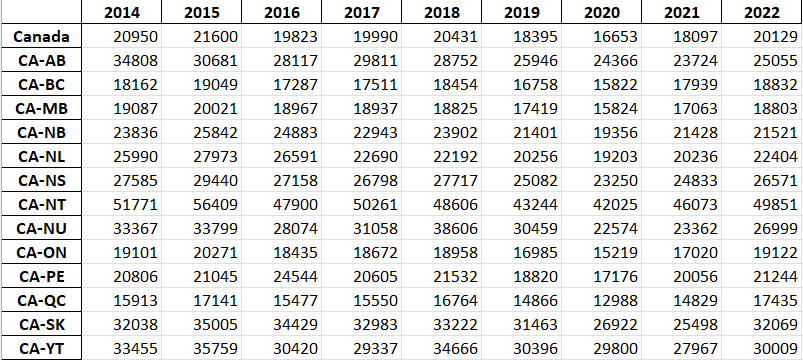
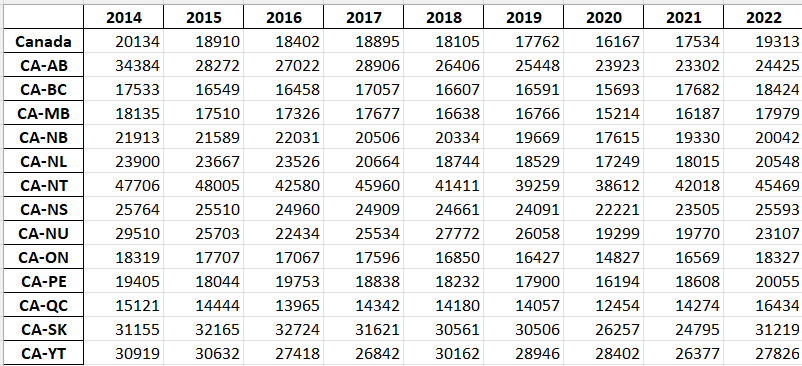
Update README

diff --git a/README.md b/README.md
@@ -1,4 +1,4 @@
-## _OpenIO-Canada v2.11_
+## _OpenIO-Canada v2.11.1_
 
 Python class creating Multi-Regional symmetric Environmentally Extended Input-Output (MREEIO) tables for Canada. OpenIO-Canada 
 operates at the provincial level (13 provinces). It can thus be used to compare the environmental impacts of value chains
@@ -11,9 +11,9 @@ OpenIO-Canada covers 492 commodities, 33 GHGs, around 300 pollutants in 3 compar
 
 OpenIO-Canada is connected to the Exiobase global MRIO database to model value chains happening outside Canada.
 
-**_IMPORTANT_** While openIO-Canada v2.11 CAN operate with Exiobase versions 3.9.4, 3.9.5 and 3.9.6, we do NOT recommend 
+**_IMPORTANT_** While openIO-Canada v2.11.1 CAN operate with Exiobase versions 3.9.4, 3.9.5, 3.9.6, 3.10.1, 3.10.2 we do NOT recommend 
 using these versions of Exiobase, as there are significant mistakes in the modeling of the mining sector. This triggers
-a drastic overestimation of Canada's own footprint, through its imports of minerals (notably the American imports).
+a drastic overestimation of Canada's own footprint, through its imports of minerals (notably through the American imports).
 
 ### Getting started
 
@@ -23,26 +23,26 @@ Go to the doc folder and start with the Running_openIO-Canada.ipynb file to gene
 how to use openIO-Canada with the other notebooks.
 
 ### Carbon footprint per capita estimates
-Using openIO-Canada v2.11 (with capitals endogenized) and population estimates from StatCan, we can derive carbon 
+Using openIO-Canada v2.11.1 (with capitals endogenized) and population estimates from StatCan, we can derive carbon 
 footprints per capita for all 13 provinces of Canada, and Canada as a whole, from 2014 to 2022, following a consumption approach.
 
 <img src="images/consumption_footprints.png" width="600"/>
 
-We can see that the national carbon footprint per capita is around 20tCO2eq, even though it slightly decreased during the
+We can see that the national carbon footprint per capita is around 19tCO2eq, even though it slightly decreased during the
 COVID years (2019, 2020 & 2021). We can also note that there was virtually no progress nationally from 2014 to 2022. 
-Per province, it follows a similar trend of virtually no progress. Two provinces stand out. Alberta significantly reduced
-its enormous carbon footprint per capita to 25tCO2eq, even though it is still one of the worst in Canada. Québec in 2022, on the other hand
-had the worst carbon footprint in over 8 years, even though it stays the best performing province.
+Per province, it follows a similar trend of virtually no progress. Three provinces stand out. Alberta significantly reduced
+its enormous carbon footprint per capita from 34tCO2eq to 24tCO2eq, even though it is still one of the worst in Canada. 
+On the other hand, both Québec and British Columbia in 2022 had their worst carbon footprint by far in over 8 years.
 
 We can also look at the same results, but through a territorial approach.
 
 <img src="images/territorial_footprints.png" width="600"/>
 
 The national carbon footprint following a territorial approach is also around 20tCO2eq. This time however, we can see a small
-decrease of that footprint in time. This could be explained by a greening of the operations throughout Canada, although 
+decrease of that footprint over time. This could be explained by a greening of the operations throughout Canada, although 
 such a greening procedure would have most likely triggered a decrease of the consumption footprint as well. This thus 
 rather seems to indicate that Canada delocalized a part of its production, instead relying on imports. <br>
-Regarding provinces, we can see that the worst of the national production happens in Alberta and Saskatchewan.
+Regarding provinces, we can see that the worst of the national production exclusively happens in Alberta and Saskatchewan.
 
 
 ### Classification detail
